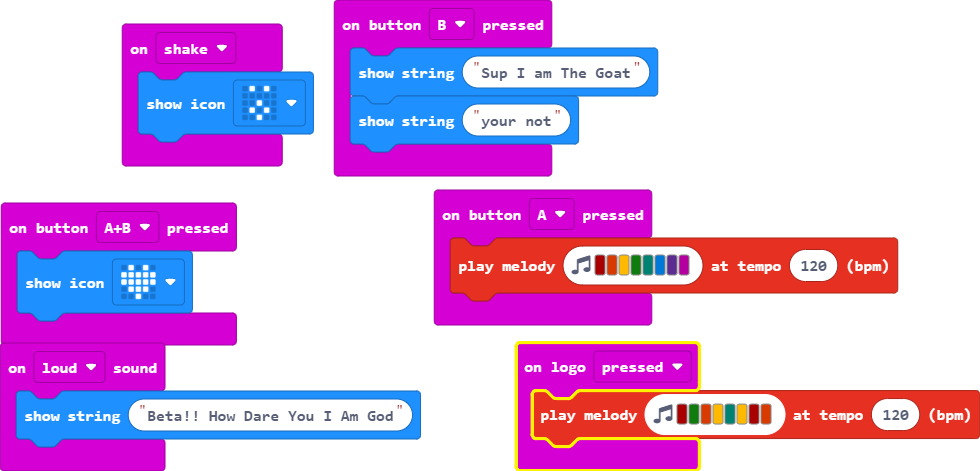
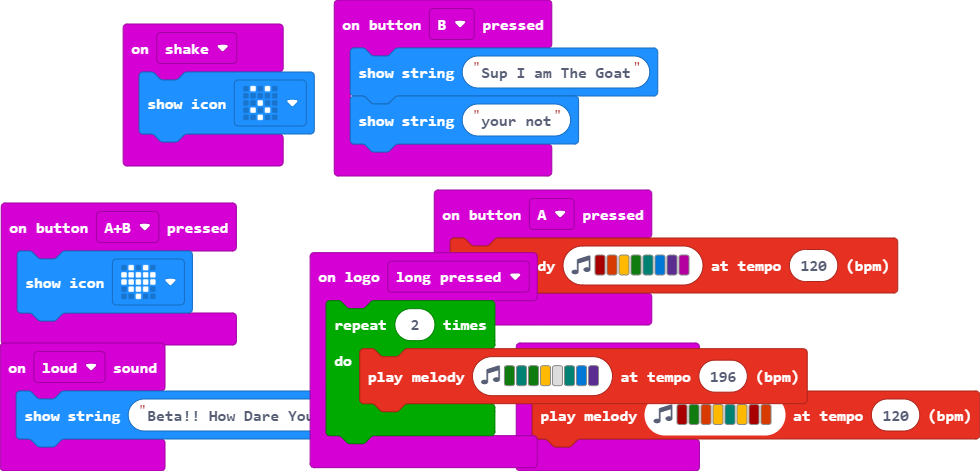
Update main.blocks, main.ts

diff --git a/main.ts b/main.ts
@@ -1,3 +1,8 @@
+input.onLogoEvent(TouchButtonEvent.LongPressed, function () {
+    for (let index = 0; index < 2; index++) {
+        music.playMelody("G F G A - F E D ", 196)
+    }
+})
 input.onButtonPressed(Button.A, function () {
     music.playMelody("C5 B A G F E D C ", 120)
 })
